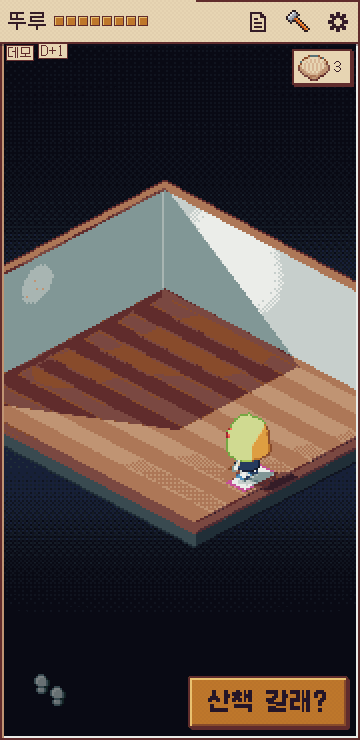
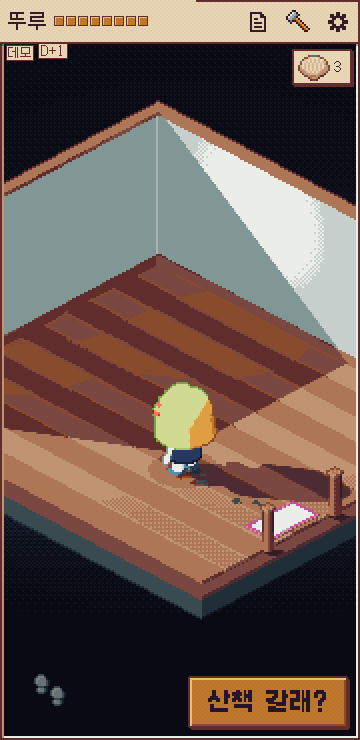
7차 W: 방 안 기본 배율 √2 (화면을 채운다 · 화면이 캐릭터를 따라감), scene.roomFocus
Claude-Session: https://claude.ai/code/session_01Tq2y4TM4YC1T1S8gH7WyyS

diff --git a/js/scene3d.js b/js/scene3d.js
@@ -5889,7 +5889,8 @@ var SCENE3D = (function () {
       IN.target.set(0, snapPos(yc), 0); IN.target.y = snapPos(yc - liftOf(0, yc, 0, [[hx, 0, hz], [-hx, H, -hz]]));
       PLACE_BOX.inside = [[-hx - 6 / 27, hx + 6 / 27], [-0.48, H], [-hz - 6 / 27, hz + 6 / 27]];
       IN.shade = [[-hx - 0.6, hx + 0.6], [-0.6, H + 0.2], [-hz - 0.6, hz + 0.6]];
-      showPlace('inside'); PLACE.room = 'inside'; container.dataset.room = 'inside'; container.dataset.inside = key;
+      if (IN.zoom0 == null) IN.zoom0 = st.zoomF; ZT = null; st.zoomF = ZOOM_STEPS[3];   /* 11-22 리드 (주인: 화면이 비는 느낌): 방 안 기본은 한 칸 반 가까이 (√2 배 — m 당 38 아트px). 방이 화면 세로를 거의 채우고 화면이 내 캐릭터를 따라간다 (방 상자 안에서만). 두 손가락으로 줄이면 방 전체 (1 배) */
+      showPlace('inside'); PLACE.room = 'inside'; container.dataset.room = 'inside'; container.dataset.inside = key; applyZoom(); touchMode();
       if (plG.parent !== G.g) G.g.add(plG); fpClear(G.g);
       var d = R.door || [hx - 0.4, 0], px = clamp(d[0], -hx + PL_MARGIN, hx - PL_MARGIN), pz = clamp(d[1], -hz + PL_MARGIN, hz - PL_MARGIN);
       PL.sit = false; PL.hop = null; PL.tbl = false; plStop(); PL.place = 'inside'; PL.pos.set(px, 0, pz); PL.faceCam = false; PL.yaw = PL.wantYaw = typeof R.face === 'number' ? R.face : Math.atan2(-px, -pz); PL.moving = false; PL.pending = ''; plSnap();
@@ -5897,8 +5898,8 @@ var SCENE3D = (function () {
     }
     function inHide() {   /* 덮인 프레임: 다시 넓은 바깥의 문 앞으로 */
       var b = IN.back || wideXZ(WIDE.ARRIVE.village[0], WIDE.ARRIVE.village[1]);
-      delete container.dataset.inside; IN.key = null; IN.g = null;
-      showPlace('yard'); PLACE.room = 'yard'; container.dataset.room = 'yard';
+      delete container.dataset.inside; IN.key = null; IN.g = null; ZT = null; st.zoomF = IN.zoom0 == null ? 1 : IN.zoom0; IN.zoom0 = null;   /* 바깥 배율은 들어가기 전 그대로 */
+      showPlace('yard'); applyZoom(); touchMode(); PLACE.room = 'yard'; container.dataset.room = 'yard';
       if (plG.parent !== YROOM.g) YROOM.g.add(plG); fpClear(YROOM.g);
       plStop(); PL.place = 'yard'; PL.pos.set(b[0], 0, b[1]); PL.faceCam = false; PL.yaw = PL.wantYaw = b[2] == null ? Math.PI / 4 : b[2]; PL.moving = false; PL.pending = ''; plSnap();
       placeCamera(); wideCentreOn(); fitShadow(); dither.still = 0;
@@ -5952,6 +5953,13 @@ var SCENE3D = (function () {
       var sp = WIDE_SPOT[id].sp, st2 = sp.stand; if (!st2 || PL.place !== 'inside' || Math.hypot(PL.pos.x - st2[0], PL.pos.z - st2[1]) <= 0.25) return false;
       var key = IN.key; plWalkTo(new T.Vector3(st2[0], 0, st2[1]), Math.atan2(sp.x - st2[0], sp.z - st2[1])).then(function () { if (IN.key === key && PL.place === 'inside' && !el.hidden && Math.hypot(PL.pos.x - st2[0], PL.pos.z - st2[1]) <= 0.4) el.click(); });
       return true;
+    }
+    function viewFocus(x, z, y) {   /* 그 자리 (지금 보이는 장소의 좌표) 를 화면 가로 가운데 · 위에서 3분의 1 높이에 오게 화면을 민다 (경계 안에서 · 0.25 s) → 됐나. 카드가 뜰 때 그 대상이 카드 위로 보이게 */
+      if (!S || !S.N || panLocked() || !panOn()) return false;
+      var g = groupOf(PLACE.vis); _fw.set(+x || 0, y == null ? 1.0 : +y, +z || 0); if (g) _fw.add(g.position); _fw.sub(camTargetNow());
+      var b = panBox(), tx = clamp(Math.round(_fw.dot(_r) * S.N) / S.N, b[0], b[1]), ty = clamp(Math.round((_fw.dot(_u) - S.rh / 6 / S.N) * S.N) / S.N, b[2], b[3]);
+      if (YARD_WIDE && PLACE.vis === 'yard') _wideKeep.on = false;
+      panTo(tx, ty, 0.25, 'tween'); dither.still = 0; return true;
     }
     function inSlots(key) {   /* 방의 치수 · 문 · 자리 (방 안 좌표) — 갈래 S · C · P · N 이 읽는다 */
       var R = ROOM_REG[key]; if (!R) return null; var sp = {};
@@ -7409,6 +7417,7 @@ var SCENE3D = (function () {
       area: wideArea, goPlace: wideGo, beachShells: wideShells, beachShellNear: wideShellNear, beachShellGo: wideShellGo, groundY: function (x, z) { return YARD_WIDE ? wideGroundY(+x || 0, +z || 0) : 0; },   /* 11-21 7차 바깥 한 장: 선 곳 · 빠른 이동 · 조개 · 땅 높이 */
       wideFocus: function () { if (YARD_WIDE && PLACE.vis === 'yard' && PL.place === 'yard') { wideCentreOn(); placeCamera(); } },   /* 시험: 화면 가운데를 내 캐릭터로 (debugPlayerAt 으로 멀리 옮긴 뒤) */
       roomSpotGo: function (btnId) { var k = WIDE_SPOT_KEYS.filter(function (q) { return WIDE_SPOT[q].room === IN.key && WIDE_SPOT[q].sp.btn === btnId; })[0], el = k && SPOTS[k]; return !!(k && el && PLACE.vis === 'inside' && inSpotWalk(k, el)); },   /* 단추를 바로 누른 때 (키보드): 멀면 걸어간 뒤 다시 누른다 → 걷기 시작했나 */
+      roomFocus: viewFocus,   /* roomFocus(x, z[, y]): 그 자리를 화면 위쪽 3분의 1 에 (방 안 · 넓은 바깥 둘 다) */
       roomReg: ROOM_REG, enterRoom: enterRoom, leaveRoom: leaveRoom, inRoom: function () { return PLACE.vis === 'inside' ? IN.key : null; }, roomSlots: inSlots, debugRoomStub: inStub,   /* 11-22 계약 C9: 걸어 들어가는 방 */
       project: function (x, y, z) { var g = groupOf(PLACE.vis), p = _hp.set(+x || 0, +y || 0, +z || 0); if (g) p.add(g.position); p.project(camera); return { x: S.offX + (p.x * 0.5 + 0.5) * S.cw, y: S.offY + (1 - (p.y * 0.5 + 0.5)) * S.ch }; },   /* 지금 보이는 장소의 좌표 → #scene 안 CSS px (카드 · 표를 붙일 자리) */
       wideReg: WIDE_REG,   /* 시험 · 다른 스크립트가 등록부에 얹을 때 (갈래 V 는 이 파일 안에서 바로 쓴다) */

diff --git a/tools/test-light.js b/tools/test-light.js
@@ -533,6 +533,7 @@ function rectOf(page, sel) { return page.evaluate(function (sel) { var e = docum
       sc.debugPlayerAt(27 * K, 27 * K); sc.debugSim(0.05, 3); var st0 = sc.stats(); r.n0 = sc.pan().n; r.prog0 = st0.programs;
       var en = await run(APP.goInside('wtest'), 300); r.enter = en; r.inside = APP.inside; r.room = APP.room; r.view = sc.view(); r.sceneIn = sc.inRoom(); r.n1 = sc.pan().n; r.allowed = sc.playerInputAllowed();
       sc.debugStep(0.05); var st1 = sc.stats(); r.calls = st1.calls; r.prog1 = st1.programs; r.at0 = sc.player().at; r.slots = sc.roomSlots('wtest'); r.ds = document.getElementById('scene3d').dataset.inside;
+      r.focus = sc.roomFocus(-2.6, -1.2); sc.debugSim(0.05, 10); var pf = sc.project(-2.6, 1.0, -1.2); r.focusAt = [Math.round(pf.x), Math.round(pf.y)]; sc.zoomTo ? 0 : 0;
       var pc = sc.project(0, 0, 0), pa = sc.screenOf(0, 0, 0); r.proj = [Math.round(pc.x), Math.round(pc.y), Math.round(pa.x), Math.round(pa.y), innerWidth, innerHeight];
       function push(x, y, n) { sc.setPlayerInput({ x: x, y: y }); sc.debugSim(0.05, n); sc.setPlayerInput(null); sc.debugSim(0.05, 1); return sc.player().at; }
       var ext = [0, 0, 0, 0]; [[1, 0], [-1, 0], [0, 1], [0, -1], [0.7, 0.7], [-0.7, -0.7], [0.7, -0.7], [-0.7, 0.7]].forEach(function (d) { var a = push(d[0], d[1], 80); ext[0] = Math.min(ext[0], a[0]); ext[1] = Math.max(ext[1], a[0]); ext[2] = Math.min(ext[2], a[2]); ext[3] = Math.max(ext[3], a[2]); });
@@ -549,10 +550,11 @@ function rectOf(page, sel) { return page.evaluate(function (sel) { var e = docum
       return r;
     });
     ok(rm.none && rm.none.ok === false && rm.none.reason === 'none' && rm.enter[0] === true && rm.inside === 'wtest' && rm.sceneIn === 'wtest' && rm.room === 'inside' && rm.view === 'inside' && rm.ds === 'wtest' && rm.allowed === true, 'L11 방으로 들어간다 (APP.goInside → ' + rm.enter[0] + ' · ' + rm.enter[1] + ' s · APP.inside ' + rm.inside + ' · 장소 ' + rm.view + ') · 없는 방은 none');
-    ok(rm.n0 === 18 && rm.n1 === 27 && rm.n2 === 18 && rm.prog1 === rm.prog0 && rm.prog2 === rm.prog0 && rm.calls <= 60, 'L11 방 안은 방 배율 (m 당 ' + rm.n0 + ' → ' + rm.n1 + ' → 나오면 ' + rm.n2 + ' 아트px) · 셰이더 프로그램 그대로 (' + rm.prog0 + ') · 방 ' + rm.calls + ' 콜 (≤ 60)');
+    ok(rm.n0 === 18 && rm.n1 === 38 && rm.n2 === 18 && rm.prog1 === rm.prog0 && rm.prog2 === rm.prog0 && rm.calls <= 60, 'L11 방 안은 방 배율 (m 당 ' + rm.n0 + ' → ' + rm.n1 + ' → 나오면 ' + rm.n2 + ' 아트px) · 셰이더 프로그램 그대로 (' + rm.prog0 + ') · 방 ' + rm.calls + ' 콜 (≤ 60)');
     ok(rm.ext[0] >= -2.651 && rm.ext[1] <= 2.651 && rm.ext[2] >= -2.251 && rm.ext[3] <= 2.251 && rm.ext[0] < -2.5 && rm.ext[1] > 2.5 && rm.ext[2] < -2.1 && rm.ext[3] > 2.1 && rm.gap >= 0.749, 'L11 방 안 걸음은 바닥 안 (x ' + rm.ext[0] + ' ~ ' + rm.ext[1] + ' · z ' + rm.ext[2] + ' ~ ' + rm.ext[3] + ') · 가운데 상자는 못 뚫는다 (가장 가까이 ' + rm.gap + ' m ≥ 0.75)');
     ok(rm.btn[0] === false && rm.btn[1] === 'over' && rm.pick === 'room.wtest.a' && rm.walkStart === true && rm.c0 === 0 && rm.c1 === 1 && Math.hypot(rm.stand[0] + 2.0, rm.stand[2] + 1.2) < 0.1 && rm.frames > 10, 'L11 방 안의 자리: 단추가 그림 위에 놓이고 · 멀리서 누르면 설 자리 (' + rm.stand[0] + ', ' + rm.stand[2] + ') 로 걸어간 뒤 한 번 눌린다 · frame 콜백 ' + rm.frames);
     ok(Math.abs(rm.proj[0] - rm.proj[2]) <= 1 && Math.abs(rm.proj[1] - rm.proj[3]) <= 1 && rm.proj[0] > 0 && rm.proj[0] < rm.proj[4] && rm.proj[1] > 0 && rm.proj[1] < rm.proj[5] && rm.slots && rm.slots.half[0] === 3 && !!rm.slots.spots['room.wtest.a'] && rm.slots.built === true, 'L11 scene.project 는 방 좌표를 #scene 안 px 로 (' + rm.proj.slice(0, 2) + ') · roomSlots 가 치수와 자리를 돌려준다');
+    ok(rm.focus === true && rm.focusAt[0] > 20 && rm.focusAt[0] < rm.proj[4] - 20 && rm.focusAt[1] > 60 && rm.focusAt[1] < rm.proj[5] * 0.55, 'L11 roomFocus: 방 구석의 자리가 화면 위쪽 절반 안에 온다 ' + JSON.stringify(rm.focusAt));
     ok(rm.leave[0] === true && rm.inside2 === null && rm.view2 === 'yard' && rm.area === 'village' && Math.abs(rm.back[0] - 24.8) < 0.05 && Math.abs(rm.back[1] + 2.1) < 0.05 && rm.allowed2 === true && Math.abs(rm.scr[0] - 180) < 40 && rm.scr[1] > 90, 'L11 나오면 들어간 문 밖 (s ' + rm.back[0] + ' · t ' + rm.back[1] + ') 에 서고 화면이 따라온다 ' + JSON.stringify(rm.scr) + ' (' + rm.leave[1] + ' s)');
     ok(rm.again === true && rm.built === 1 && rm.kit === true && rm.home[0] === true && rm.home[1] === 'attic' && !rm.home[2] && rm.home[3] === null && JSON.stringify(rm.ev) === '["wtest",null,"wtest",null]', 'L11 다시 들어가도 build 는 한 번 · 방 안에서 집으로 (goRoom attic) = 먼저 나온 뒤 다락 (' + rm.home[4] + ' s) · ppol:room 사건 ' + JSON.stringify(rm.ev));
     await o.ctx.close();

diff --git a/wip/round7/notes/w-dbg.js b/wip/round7/notes/w-dbg.js
@@ -16,7 +16,7 @@ var ROOT = path.resolve(__dirname, '../../..');
   await page.waitForTimeout(600);
   var S1 = '/tmp/claude-0/-home-user-Let-s-model-play/bf38d309-8ede-59ca-909d-3c51ecde03b7/scratchpad/shots/';
   page.on('console', function (m) { if (m.type() === 'error') console.log('CON ' + m.text().slice(0, 300)); });
-  await page.evaluate(function () { var sc = APP.scene, K = Math.SQRT1_2; window.__ev = []; document.addEventListener('ppol:room', function (e) { window.__ev.push(e.detail.key); }); sc.debugRoomStub('clothes'); sc.debugPlayerAt(27 * K, 27 * K); });
+  await page.evaluate(function () { var sc = APP.scene, K = Math.SQRT1_2; window.__ev = []; document.addEventListener('ppol:room', function (e) { window.__ev.push(e.detail.key); }); sc.debugRoomStub('clothes'); sc.debugPlayerAt(25 * K, 25 * K); });
   await page.waitForTimeout(500);
   var t0 = Date.now(), r1 = await page.evaluate(function () { return APP.goInside('clothes'); }); await page.waitForTimeout(500);
   console.log('in', r1, Date.now() - t0, JSON.stringify(await page.evaluate(function () { var sc = APP.scene, s = sc.stats(); return { inside: APP.inside, room: APP.room, view: sc.view(), at: sc.player().at, allowed: sc.playerInputAllowed(), calls: s.calls, prog: s.programs, zoom: sc.pan().n, ev: window.__ev, slots: sc.roomSlots('clothes'), pr: sc.project(0, 0, 0) }; })));
